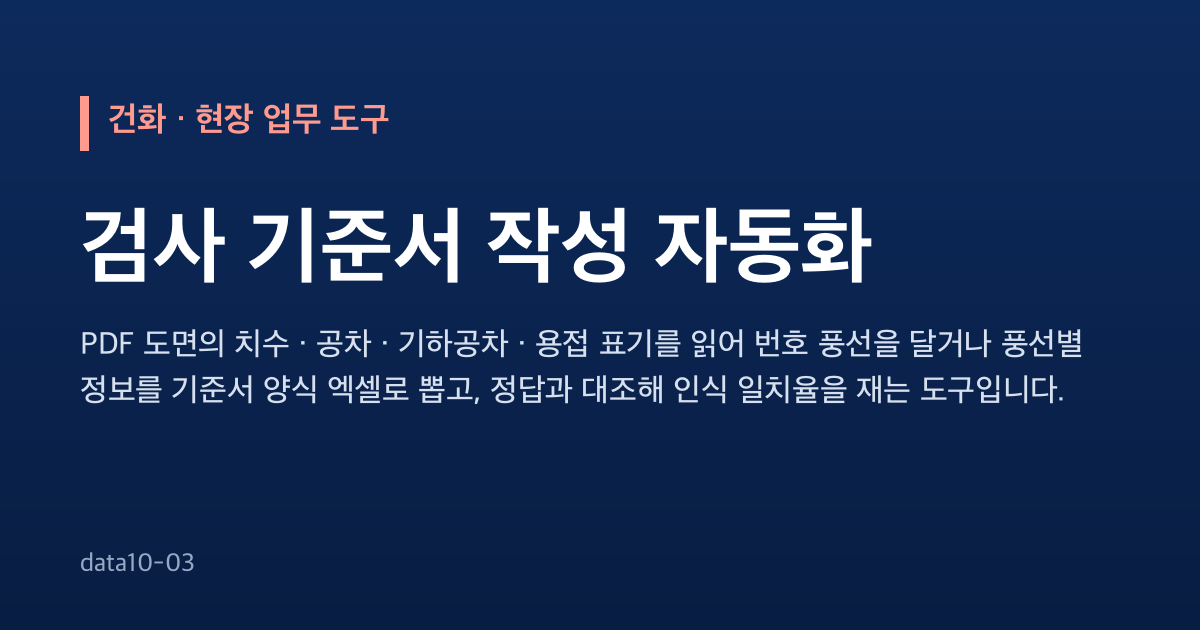
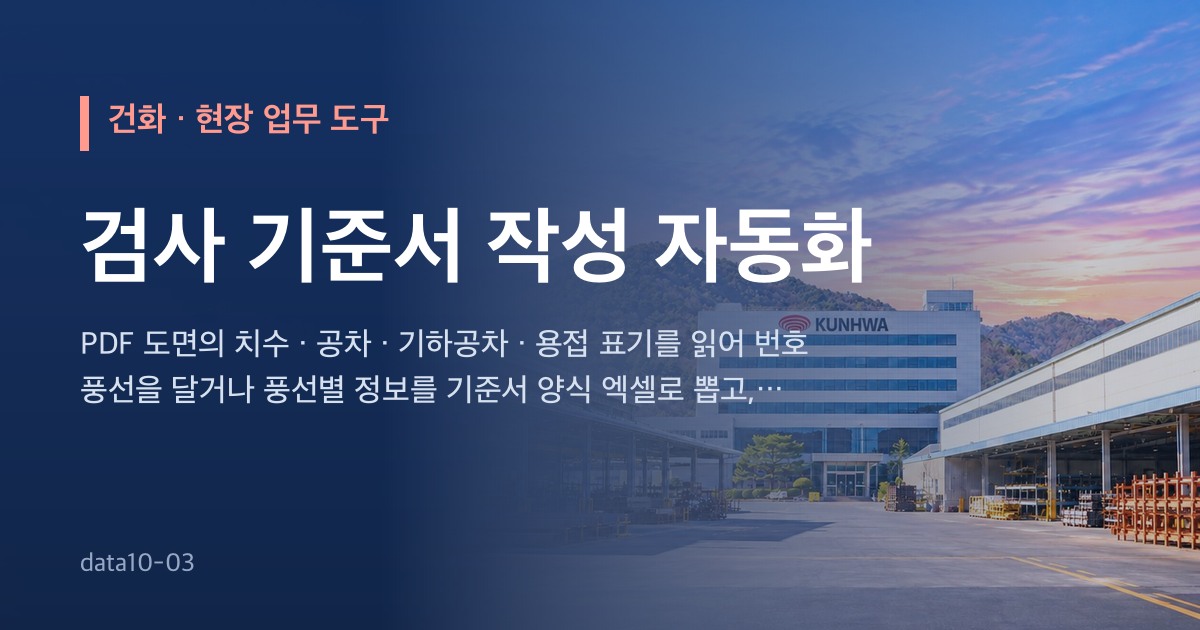
개발 자료 전체 공개 — 개발일지 · 기획서 원문 · 시험 · SQL · 스크립트 · README (수강생 내려받기용)

diff --git a/index.html b/index.html
@@ -12,9 +12,16 @@
   <meta property="og:description" content="PDF 도면의 치수 · 공차 · 기하공차 · 용접 표기를 읽어 번호 풍선을 달거나 풍선별 정보를 기준서 양식 엑셀로 뽑고, 정답과 대조해 인식 일치율을 재는 도구입니다.">
   <meta property="og:url" content="https://data10-03.jobability.co.kr/">
   <meta property="og:image" content="https://data10-03.jobability.co.kr/og-image.png">
+  <meta property="og:image:secure_url" content="https://data10-03.jobability.co.kr/og-image.png">
+  <meta property="og:image:type" content="image/png">
   <meta property="og:image:width" content="1200">
   <meta property="og:image:height" content="630">
+  <meta property="og:image:alt" content="건화 · 검사 기준서 작성 자동화">
+  <meta property="og:locale" content="ko_KR">
   <meta name="twitter:card" content="summary_large_image">
+  <meta name="twitter:title" content="건화 · 검사 기준서 작성 자동화">
+  <meta name="twitter:description" content="PDF 도면의 치수 · 공차 · 기하공차 · 용접 표기를 읽어 번호 풍선을 달거나 풍선별 정보를 기준서 양식 엑셀로 뽑고, 정답과 대조해 인식 일치율을 재는 도구입니다.">
+  <meta name="twitter:image" content="https://data10-03.jobability.co.kr/og-image.png">
   <!-- /seo-kit -->
   <meta name="description" content="PDF 도면(벡터)의 치수·공차·기하공차·용접 표기를 인식해 번호 풍선을 자동으로 달고, 풍선이 이미 있는 도면에서는 풍선별 정보를 엑셀로 뽑고, 정답과 대조해 일치율을 재는 브라우저 도구">
   <meta name="robots" content="noindex">
@@ -29,11 +36,11 @@
        v3: location.reload() 대신 질의 붙은 주소로 — reload 가 Fastly 에 남은 옛 판을 다시 받아 멈추던 것(10-21 build-data 강의안).
        탭 전환·포커스로는 옮기지 않는다(입력 유실). ETag 는 Cloudflare 가 지워서 쓸 수 없다. 원본: dreamit-1000/scripts/fresh-guard/guard.html -->
   <script>(function(){try{var L=location,P='_fg',h=window.history,q=L.search;if(/[?&]_fg=/.test(q)&&h&&h.replaceState){q=q.replace(/([?&])_fg=[^&]*&?/,'$1').replace(/[?&]$/,'');h.replaceState(h.state,'',L.pathname+q+L.hash);}var d=Date.parse(document.lastModified),u=L.pathname+L.search,k='__fresh_guard',t=0;if(!d||!window.fetch||!window.sessionStorage)return;var g=function(s,v){return s+(s.indexOf('?')<0?'?':'&')+P+'='+v;};var c=function(){var n=Date.now();if(n-t<15000)return;t=n;fetch(g(u,n),{method:'HEAD',cache:'no-store'}).then(function(r){var lm=r.headers.get('last-modified'),f=lm&&Date.parse(lm);if(!f||f<=d+1000)return;if(sessionStorage.getItem(k)===lm)return;sessionStorage.setItem(k,lm);L.replace(g(L.pathname+L.search,f)+L.hash);})['catch'](function(){});};c();var p=h&&h.pushState;if(p)h.pushState=function(){var x=p.apply(this,arguments);c();return x;};addEventListener('hashchange',c);addEventListener('popstate',c);}catch(e){}})();</script>
-  <link rel="stylesheet" href="css/style.css?v=2026-11-11.7">
+  <link rel="stylesheet" href="css/style.css?v=2026-11-11.8">
   <!-- auth-kit: 로그인 전에는 도구 화면을 감춘다(js/auth.js 가 판정 뒤 푼다) -->
   <script>document.documentElement.classList.add('auth-lock')</script>
-  <link rel="stylesheet" href="css/auth.css?v=2026-11-11.7">
-  <link rel="stylesheet" href="css/board.css?v=2026-11-11.7">
+  <link rel="stylesheet" href="css/auth.css?v=2026-11-11.8">
+  <link rel="stylesheet" href="css/board.css?v=2026-11-11.8">
   <!-- /auth-kit -->
 </head>
 <body>
@@ -97,20 +104,20 @@
   </dialog>
 
   <!-- 로컬 파일(file://)로 열어도 돌도록 module 이 아닌 일반 스크립트로 불러옵니다. pdf.js 는 처음 필요할 때 불러옵니다(app.js) -->
-  <script src="vendor/xlsx.full.min.js?v=2026-11-11.7"></script>
-  <script src="js/glyph-ref.js?v=2026-11-11.7"></script>
-  <script src="js/logic.js?v=2026-11-11.7"></script>
-  <script src="js/flow.js?v=2026-11-11.7"></script>
-  <script src="js/sample-pdfs.js?v=2026-11-11.7"></script>
-  <script src="js/store.js?v=2026-11-11.7"></script>
-  <script src="js/ai-endpoint.js?v=2026-11-11.7"></script>
-  <script src="js/ai-panel.js?v=2026-11-11.7"></script>
-  <script src="js/app.js?v=2026-11-11.7"></script>
+  <script src="vendor/xlsx.full.min.js?v=2026-11-11.8"></script>
+  <script src="js/glyph-ref.js?v=2026-11-11.8"></script>
+  <script src="js/logic.js?v=2026-11-11.8"></script>
+  <script src="js/flow.js?v=2026-11-11.8"></script>
+  <script src="js/sample-pdfs.js?v=2026-11-11.8"></script>
+  <script src="js/store.js?v=2026-11-11.8"></script>
+  <script src="js/ai-endpoint.js?v=2026-11-11.8"></script>
+  <script src="js/ai-panel.js?v=2026-11-11.8"></script>
+  <script src="js/app.js?v=2026-11-11.8"></script>
   <!-- auth-kit: 로그인 · 사용 신청 · 승인(정본 data10-00/kit/auth) -->
-  <script src="vendor/supabase.js?v=2026-11-11.7"></script>
-  <script src="js/auth-config.js?v=2026-11-11.7"></script>
-  <script src="js/board.js?v=2026-11-11.7"></script>
-  <script src="js/auth.js?v=2026-11-11.7"></script>
+  <script src="vendor/supabase.js?v=2026-11-11.8"></script>
+  <script src="js/auth-config.js?v=2026-11-11.8"></script>
+  <script src="js/board.js?v=2026-11-11.8"></script>
+  <script src="js/auth.js?v=2026-11-11.8"></script>
   <!-- /auth-kit -->
 </body>
 </html>

diff --git a/js/auth.js b/js/auth.js
@@ -233,6 +233,12 @@
       box.classList.toggle('hp-sl-light', !!(sl[i] && sl[i].tone === 'light'));   // 밝은 사진이면 글자를 어둡게
     }
     go(0);
+    // slides[].anim(움직이는 그림 gif) — 먼저 가벼운 사진을 보이고, 화면이 뜬 뒤 받아서 바꿔 끼운다(데이터 절약 · 모션 최소화면 건너뜀)
+    var conn = navigator.connection || {};
+    if (!reduce && !conn.saveData) sl.forEach(function (x, k) {
+      if (!x.anim || !track.children[k]) return;
+      setTimeout(function () { var im = new Image(); im.onload = function () { if (document.body.contains(track)) track.children[k].style.backgroundImage = 'url("' + absUrl(x.anim) + '")'; }; im.src = absUrl(x.anim); }, 1500);
+    });
     box.querySelectorAll('[data-sl]').forEach(function (b) {
       b.onclick = function () {
         var v = b.getAttribute('data-sl');

diff --git a/js/app.js b/js/app.js
@@ -5,7 +5,7 @@
   var L = window.DRLogic, F = window.DRFlow, S = window.DRStore, SM = window.DRSample, XLSX = window.XLSX;
   /* 판 맞추기 — 브라우저가 옛 logic.js 와 새 app.js 를 섞어 쓰면(Pages 캐시) 버튼과 결과가 어긋날 수 있어, 섞였으면 계산하지 않고 새로고침을 안내합니다.
      판은 scripts/bump-version.mjs 로 index.html(?v=) · logic.js 와 함께 올립니다. */
-  var APP_VERSION = '2026-11-11.7';
+  var APP_VERSION = '2026-11-11.8';
   if (!L || L.VERSION !== APP_VERSION) {
     var m0 = document.getElementById('main') || document.body;
     m0.innerHTML = '<section class="card" id="versionMismatch"><h1>새 판이 나왔습니다 — 새로고침(Ctrl+F5)해 주세요</h1><p class="alert warn">이 브라우저가 옛 파일과 새 파일을 섞어 불러왔습니다(js/logic.js ' +

diff --git a/js/logic.js b/js/logic.js
@@ -15,7 +15,7 @@
   'use strict';
   /* 판(版) — index.html 의 ?v= · app.js 의 APP_VERSION 과 같아야 합니다(scripts/bump-version.mjs 로 함께 올림).
      브라우저가 옛 logic.js 와 새 app.js 를 섞어 쓰면 app.js 가 이 값을 보고 계산을 멈춥니다. */
-  var VERSION = '2026-11-11.7';
+  var VERSION = '2026-11-11.8';
 
   /* ── 1. 도우미·기하 ─────────────────────────────────────────── */
   var PT2MM = 25.4 / 72;

diff --git a/docs/평가보고서/data10-03_평가보고서_2026-11-11.md b/docs/평가보고서/data10-03_평가보고서_2026-11-11.md
@@ -2,7 +2,7 @@
 
 - 과제: 검사 기준서 작성 자동화
 - 요청자: 황수용
-- 점검일: 2026-11-11 (라이브 점검 판 2026-11-11.6, 이 보고서와 함께 올리는 판 2026-11-11.7)
+- 점검일: 2026-11-11 (라이브 점검 판 2026-11-11.6, 이 보고서와 함께 올리는 판 2026-11-11.8)
 - 사이트: https://data10-03.jobability.co.kr/
 - 리포지토리: https://github.com/jungaistar/data10-03
 
@@ -34,7 +34,7 @@ PDF 도면의 치수 · 공차 · 기하공차 · 용접 표기를 읽어 번호
 | 첫 화면 구성 | 충족 | 모양 사진 슬라이드 3장 · 기능 6 · 사용 순서 6 · 실제 화면 있음 |
 | 회사 로고(그림) | 충족 | 머리글 로고 그림 |
 | 기획서 페이지 · 실제 화면 그림 | 충족 | plan.html 200 · screen.png 200 |
-| 공유 미리보기 메타 · 아이콘 | 조치함 | 점검 때 og 메타 · 아이콘이 없어 판 2026-11-11.7 에서 넣음 |
+| 공유 미리보기 메타 · 아이콘 | 조치함 | 점검 때 og 메타 · 아이콘이 없어 넣음 — og:title · description · url · image(1200×630, 첫 화면 사진 바탕) · canonical |
 
 ## 3. 기능과 시험
 
@@ -63,7 +63,7 @@ PDF 도면의 치수 · 공차 · 기하공차 · 용접 표기를 읽어 번호
 | Supabase 설정 파일 | 충족 | auth.sql · board.sql · site.sql · verify.sql |
 | Supabase 연결 안내 | 충족 | supabase/README.md (11단계 · 기대하는 값 · 자주 나는 문제) |
 | 내 깃허브로 옮기기 안내 | 충족 | docs/내_깃허브로_옮기기.md |
-| 기획서(워드) · 개발일지 · 변경 이력 | 충족 | 변경 이력 10건 · 커밋 16개 |
+| 기획서(워드) · 개발일지 · 변경 이력 | 충족 | 변경 이력 11건 · 커밋 17개 |
 | 공개 리포지토리(ZIP 내려받기) | 충족 | github.com/jungaistar/data10-03 |
 | 게시판 · 새 글 알림 · 첫 화면 고르기 | 충족 | 과정용 프로젝트에 SQL 적용 완료(표 · 정책 수 확인) |
 
@@ -74,13 +74,14 @@ PDF 도면의 치수 · 공차 · 기하공차 · 용접 표기를 읽어 번호
 | 항목 | 결과 | 근거 |
 |---|---|---|
 | 내 깃허브에 배포 | 충족 | https://sy-1190.github.io/test11/ |
-| 최신 판으로 배포 | 미충족 | 배포된 판 2026-11-11.2 (최종 2026-11-11.7) |
+| 최신 판으로 배포 | 미충족 | 배포된 판 2026-11-11.2 (최종 2026-11-11.8) |
 | 게시판 포함 판 | 충족 | 게시판 파일 있음 |
 | 내 Supabase 로 연결 | 미충족 | 아직 과정용 프로젝트 주소 그대로 |
 | 비밀 키 노출 없음 | 충족 | 설정 파일에 service_role · secret 키 없음 |
 
 ## 6. 변경 이력
 
+- 2026-11-11 점검 · 평가보고서 (판 2026-11-11.7)
 - 2026-11-11 요청 반영 (판 2026-11-11.6)
 - 2026-11-11 슬라이드 사진 (판 2026-11-11.5)
 - 2026-11-11 첫 화면 모양 고르기 (판 2026-11-11.3)

diff --git a/CHANGELOG.md b/CHANGELOG.md
@@ -2,6 +2,11 @@
 
 버전마다 기획서 워드 판을 `docs/기획서/` 에 남긴다(옛 판을 지우지 않는다).
 
+## 2026-11-11 최종 (판 2026-11-11.8)
+
+- 공유 미리보기 그림(og-image.png)을 첫 화면 사진 바탕으로, og · twitter 메타 보강
+- 평가보고서 갱신 `docs/평가보고서/`
+
 ## 2026-11-11 점검 · 평가보고서 (판 2026-11-11.7)
 
 - 16개 사이트 점검 결과와 평가보고서 `docs/평가보고서/`(md · docx)
